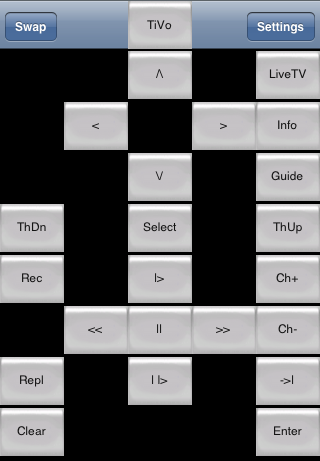
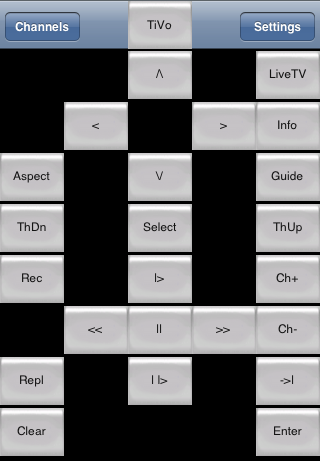
Added aspect button.  Fixed command that is sent.  Changed Swap button text.
git-svn-id: http://tivoremote.googlecode.com/svn/trunk@8 e0cf8f47-984c-0410-a431-251b1ee1f4ac

Changed region(s): [[0.0, 0.3341, 0.2188, 0.4555], [0.0312, 0.0, 0.25, 0.0911], [0.75, 0.0, 0.9375, 0.0911]]

diff --git a/source/TiVoRemoteView.m b/source/TiVoRemoteView.m
@@ -39,11 +39,6 @@
     butHeight = rect.size.height / HEIGHT;
 
     connection = [[TiVoConnection alloc] init];
-    UIImageView *background = [[UIImageView alloc] 
-        initWithFrame:
-          CGRectMake(0, 0, 460, 460)];
-    [background setImage:[UIImage applicationImageNamed:@"Default.png"]];
-//    [self addSubview:background];
     buttons = [[NSMutableArray alloc] init];
 
     return self;
@@ -75,13 +70,12 @@
 
 
     // tivo navigation
-//    [self addButton:2:0:@"TiVo":"TIVO"];
     [self addButton:2:0:@"/\\":"UP"];
     [self addButton:4:0:@"LiveTV":"LIVETV"];
     [self addButton:1:1:@"<":"LEFT"];
     [self addButton:3:1:@">":"RIGHT"];
     [self addButton:4:1:@"Info":"DISPLAY"];
-//    [self addButton:0:2:@"Aspect":""];
+    [self addButton:0:2:@"Aspect":"WINDOW"];
     [self addButton:2:2:@"\\/":"DOWN"];
     [self addButton:4:2:@"Guide":"GUIDE"];
     [self addButton:0:3:@"ThDn":"THUMBSDOWN"];

diff --git a/source/TiVoRemoteApp.m b/source/TiVoRemoteApp.m
@@ -52,7 +52,7 @@
 
     struct CGRect navRect = CGRectMake(rect.origin.x, rect.origin.y, rect.size.width, 48);
     navBar = [[UINavigationBar alloc] initWithFrame: navRect];
-    [navBar showButtonsWithLeftTitle:@"Swap" rightTitle:@"Settings"];
+    [navBar showButtonsWithLeftTitle:@"Channels" rightTitle:@"Settings"];
     [navBar setBarStyle:5];
     [navBar setDelegate:self];
 
@@ -95,8 +95,11 @@
     case 1: // page
     {
        page = (page + 1) % 2;
+       [navBar showButtonsWithLeftTitle: 
+                     (page == 0 ? @"Channels" : @"Playback")
+                     rightTitle:@"Settings"];
        [remoteView setPage:page];
-        break;
+       break;
      }
      }
 }

diff --git a/source/TiVoConnection.m b/source/TiVoConnection.m
@@ -108,8 +108,8 @@ NSLog(@"Closing");
     if (cmd == NULL) {
         return;
     }
-    char *buffer = malloc(25);
-    sprintf(buffer, "IRCODE %s\r\n", cmd);
+    char buffer[25];
+    sprintf(buffer, "IRCODE %s\r", cmd);
     NSLog(@"sending '%s' (%d)", buffer, strlen(buffer));
     int sockFD = [self getSocket];
     if (sockFD>= 0) {
